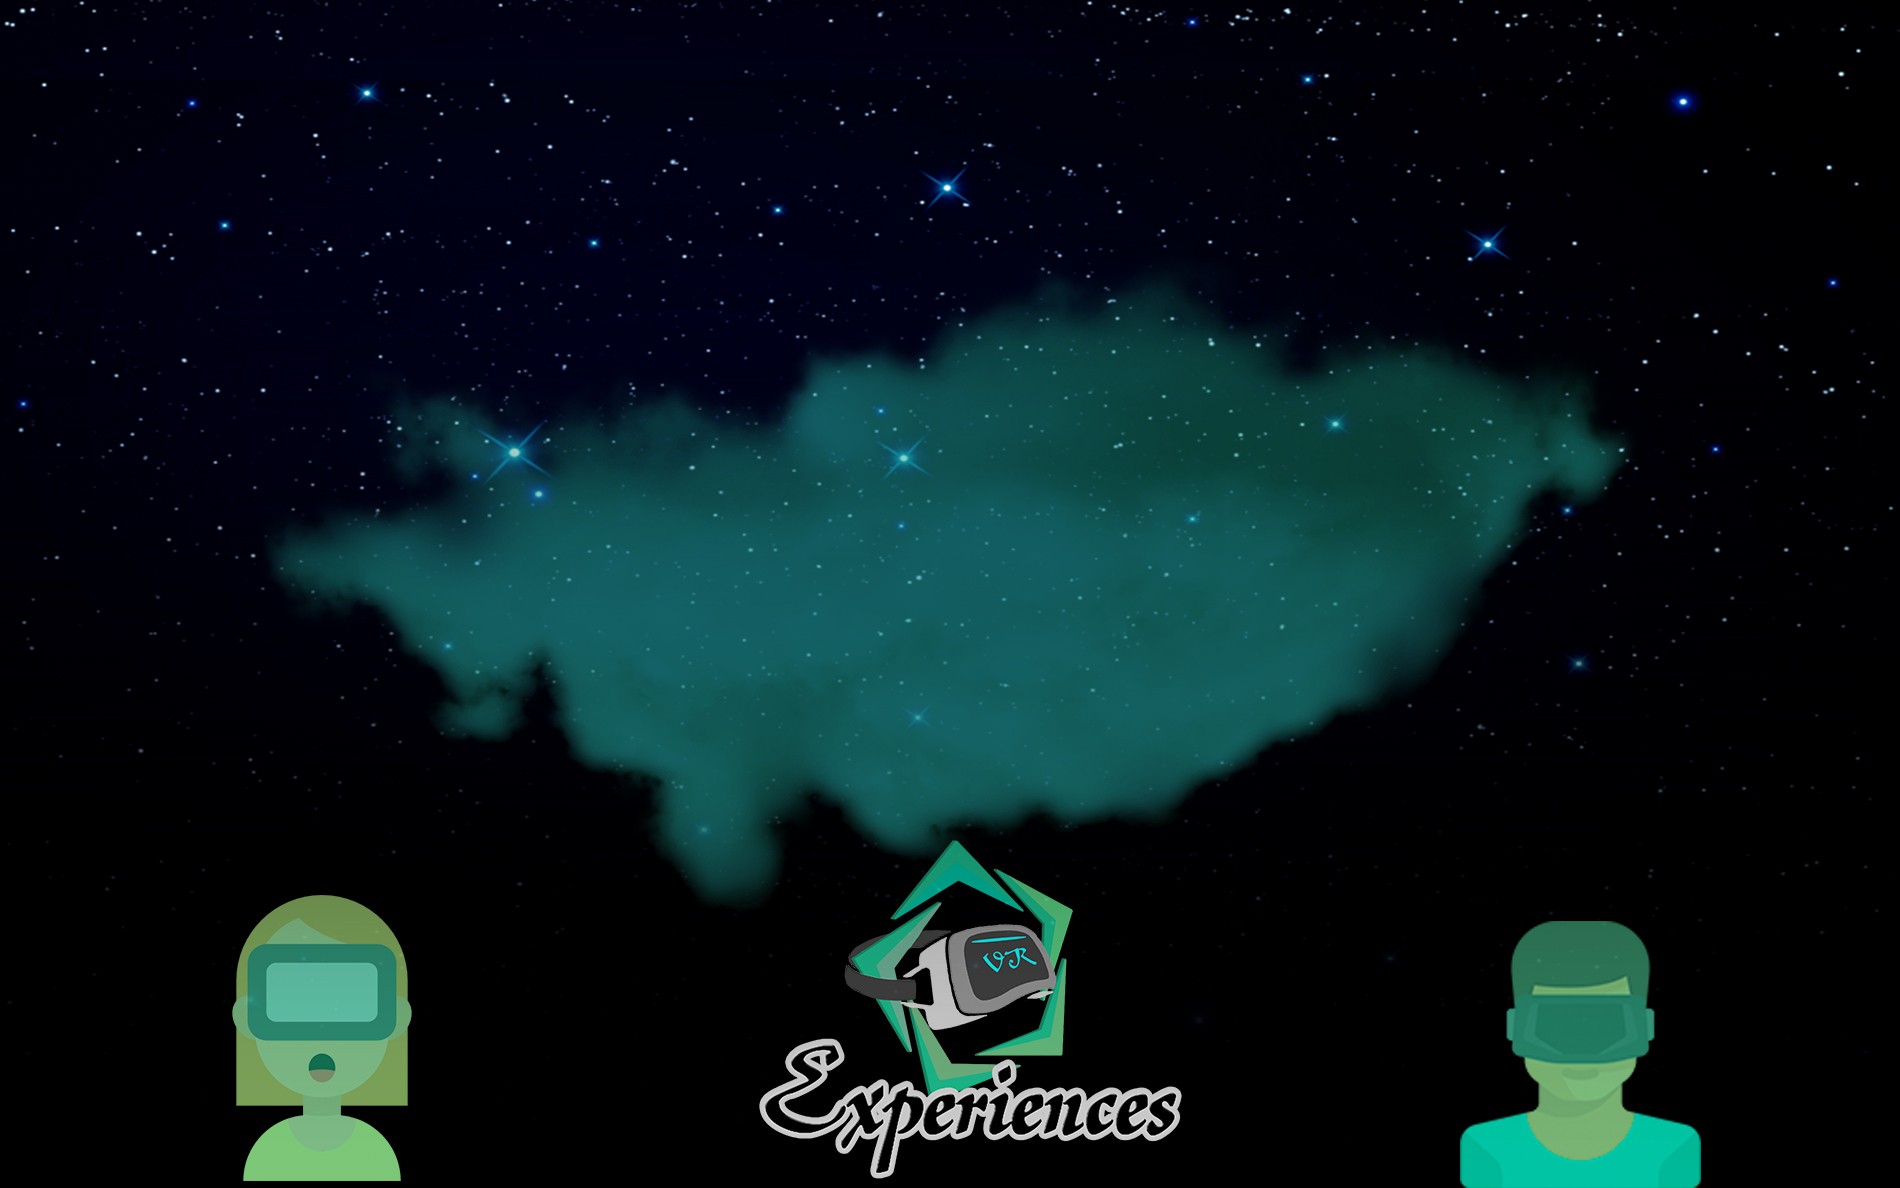
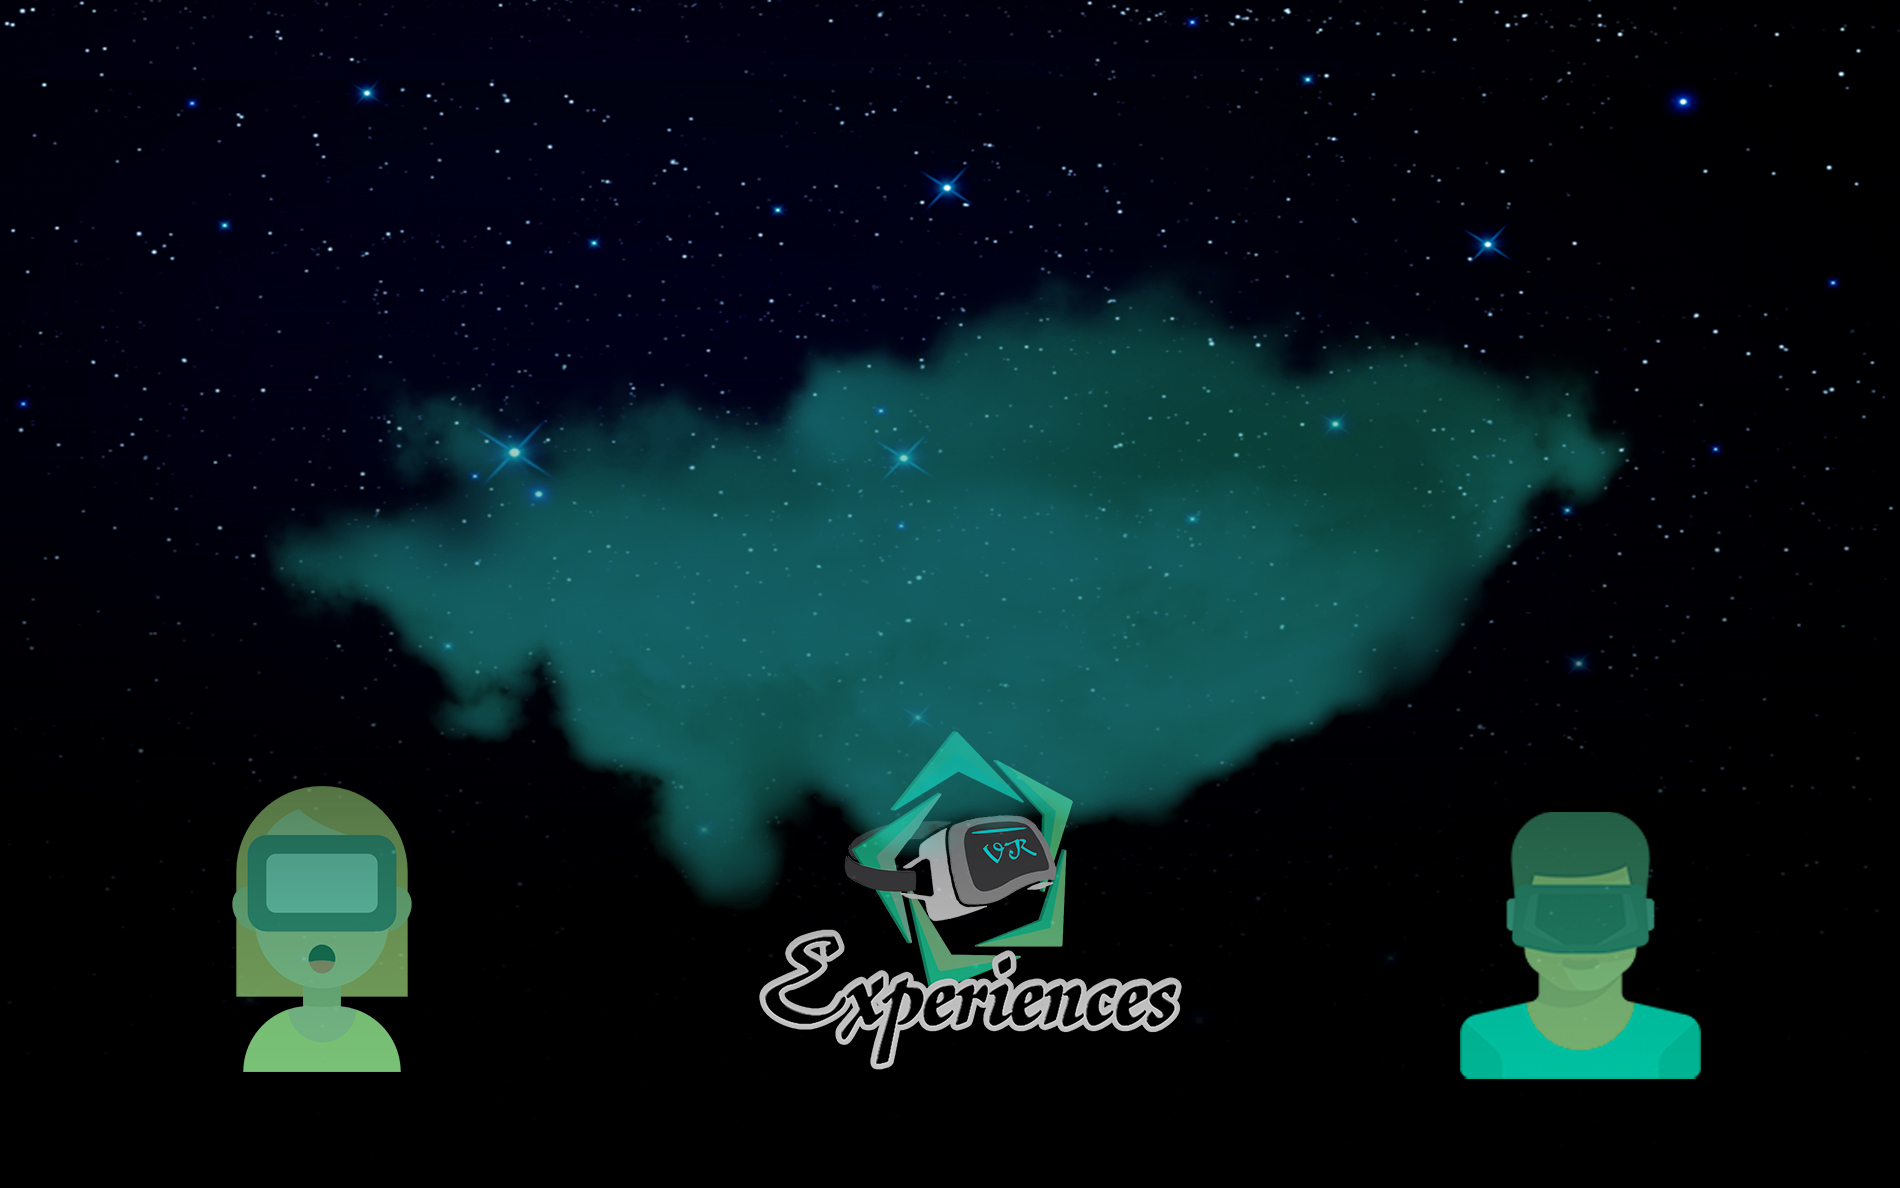
Cantacto Page Changes

Changed region(s): [[0.4037, 0.6229, 0.6211, 0.9966], [0.7453, 0.6852, 0.9005, 1.0], [0.1242, 0.654, 0.2174, 0.9966]]

diff --git a/contacto.html b/contacto.html
@@ -28,7 +28,7 @@
     <!-- Navigation Bar -->
     <nav class="navbar navbar-expand-lg navbar-light fixed-top" id="mainNav">
       <div class="container">
-        <a class="navbar-brand js-scroll-trigger text-black-50" href="index.html">VR Experience Studio</a>
+        <a class="navbar-brand js-scroll-trigger text-white-50" href="index.html">VR Experience Studio</a>
         <button class="navbar-toggler navbar-toggler-right" type="button" data-toggle="collapse" data-target="#navbarResponsive" aria-controls="navbarResponsive" aria-expanded="false" aria-label="Toggle navigation">
           Menu
           <i class="fas fa-bars"></i>
@@ -36,13 +36,13 @@
         <div class="collapse navbar-collapse" id="navbarResponsive">
           <ul class="navbar-nav ml-auto">
             <li class="nav-item">
-              <a class="nav-link js-scroll-trigger text-black-50" href="portafolio.html">Portafolio</a>
+              <a class="nav-link js-scroll-trigger text-white-50" href="portafolio.html">Portafolio</a>
             </li>
             <li class="nav-item">
-              <a class="nav-link js-scroll-trigger text-black-50" href="acerca.html">Acerca de</a>
+              <a class="nav-link js-scroll-trigger text-white-50" href="acerca.html">Acerca de</a>
             </li>
             <li class="nav-item">
-              <a class="nav-link js-scroll-trigger text-black-50" href="contacto.html">Contacto</a>
+              <a class="nav-link js-scroll-trigger text-white-50" href="contacto.html">Contacto</a>
             </li>
           </ul>
         </div>
@@ -53,7 +53,7 @@
     <!-- ############################# -->
 
   <!-- Projects Section -->
-  <section id="projects" class="projects-section bg-white">
+  <section id="projects" class="projects-section bg-black">
     <div class="container">     
 
       <!-- Project One Row -->   

diff --git a/index.html b/index.html
@@ -163,7 +163,7 @@
               <i class="fas fa-map-marked-alt text-primary mb-2"></i>
               <h4 class="text-uppercase m-0">Dirección</h4>
               <hr class="my-4">
-              <div class="small text-black-50">Calle 65 # 90 - 90 Int 3103, Medellín</div>
+              <div class="small text-black-50">Calle 65 # 90 - 90, Medellín</div>
             </div>
           </div>
         </div>
